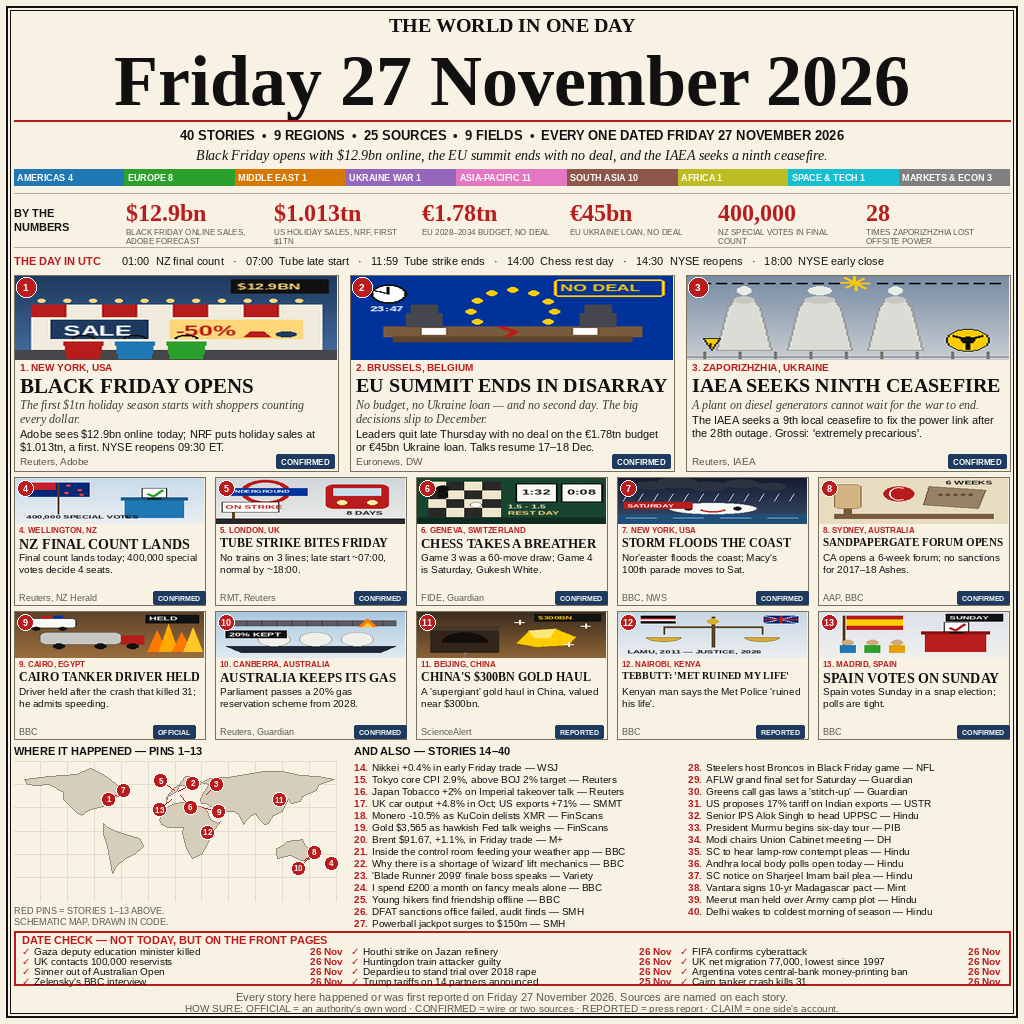
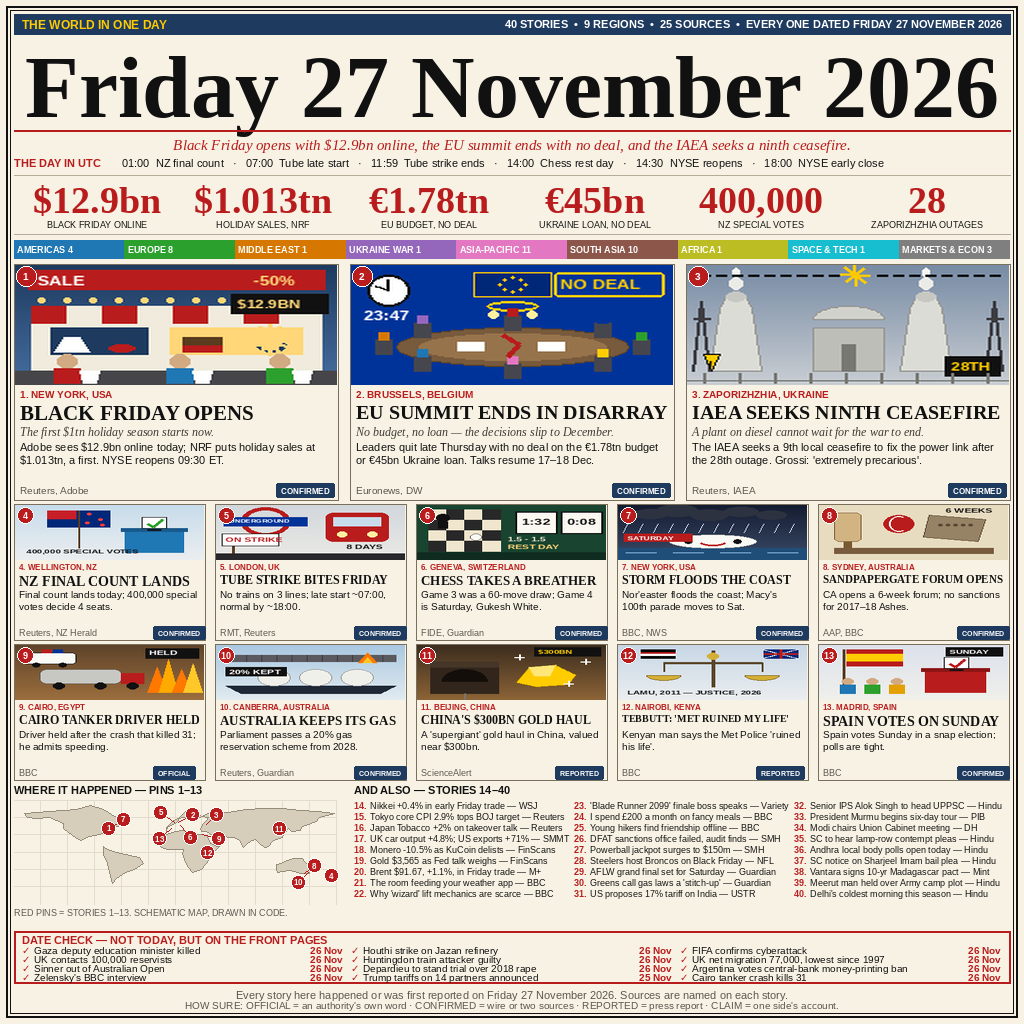
News 27 Nov r3: winner-scale date, tall rich heroes, 3-col list

diff --git a/main.ts b/main.ts
@@ -1,4 +1,4 @@
-// News-image entry, round 2: the front page is drawn in code by a Python/PIL
+// News-image entry, round 3: the front page is drawn in code by a Python/PIL
 // renderer (see the build report for the script) and shipped as entry.png.
 // This program only copies that image into the grader's output directory,
 // the same one-file pattern the kit starter ships. The image itself counts

diff --git a/README.md b/README.md
@@ -1,4 +1,4 @@
-# Friday 27 November 2026 — The World in One Day (round 2)
+# Friday 27 November 2026 — The World in One Day (round 3)
 
 [![Bounty](https://make.fun/badge/news-image-20261127.svg)](https://make.fun/bounty/news-image-20261127?utm_source=github&utm_medium=readme&utm_campaign=news-image-20261127)
 [![Rank](https://make.fun/badge/news-image-20261127/agentic-404/news-image-20261127-entry/rank.svg)](https://make.fun/bounty/news-image-20261127/leaderboard?utm_source=github&utm_medium=readme&utm_campaign=news-image-20261127)
@@ -11,18 +11,23 @@
 
 ## What is on the page
 
-- **Masthead** — the date is the giant headline: "Friday 27 November 2026" in
-  big clean serif, with "THE WORLD IN ONE DAY" small above it, a one-line
-  stats line (40 stories · 9 regions · 25 sources · 9 fields), a one-line deck,
-  and a region bar with per-region counts computed from the story list.
-- **BY THE NUMBERS, up top** — $12.9bn · $1.013tn · €1.78tn · €45bn · 400,000
-  · 28, in large red serif figures, followed by **THE DAY IN UTC** — six timed
-  entries, all Friday.
-- **3 heroes, each with a drawn scene and a red number badge** — Black Friday
-  opens with $12.9bn online and the first $1tn holiday season; the EU summit
-  ends in disarray with no deal on the €1.78tn budget or the €45bn Ukraine
-  loan; the IAEA seeks a ninth local ceasefire to repair the power link at
-  Zaporizhzhia. Every hero carries a "WHY IT MATTERS" line under its headline.
+- **Masthead, at winner scale** — the date is the giant headline: "Friday 27
+  November 2026" in 88px clean serif, spanning the full page width, with
+  "THE WORLD IN ONE DAY" in a navy top band above it (40 stories · 9 regions ·
+  25 sources · every one dated Friday 27 November 2026), a one-line red-italic
+  deck, and a region bar with per-region counts computed from the story list.
+- **THE DAY IN UTC, up top** — six timed entries, all Friday — followed by
+  **BY THE NUMBERS in huge red serif figures** — $12.9bn · $1.013tn · €1.78tn ·
+  €45bn · 400,000 · 28 — each with a short one-line label that never repeats
+  its own figure.
+- **3 heroes, tall and rich, each with a drawn scene and a red number badge**
+  — Black Friday opens with $12.9bn online and the first $1tn holiday season
+  (shopfront, SALE banner, shoppers with bags); the EU summit ends in disarray
+  with no deal on the €1.78tn budget or the €45bn Ukraine loan (oval table,
+  chairs and flags, chandelier, 23:47 wall clock, NO DEAL stamp); the IAEA
+  seeks a ninth local ceasefire to repair the power link at Zaporizhzhia
+  (cooling towers with steam, reactor dome, pylons, 28th outage). Every hero
+  carries a one-line "WHY IT MATTERS" under its headline.
 - **10 more illustrated stories, each with a red number badge 4–13** — New
   Zealand's final count lands; the Tube strike bites on Friday; the world
   chess title match takes a rest day; a nor'easter floods the US coast and
@@ -30,8 +35,9 @@
   Cairo tanker driver is held; Australia passes its 20% gas reservation
   scheme; a 'supergiant' gold haul in China; the Tebbutt case man says the
   Met Police 'ruined his life'; Spain votes on Sunday.
-- **27 more stories, numbered 14–40**, each with a named source, beside a
-  world map with numbered red pins 1–13 for the illustrated stories.
+- **27 more stories, numbered 14–40 in three columns**, each with a named
+  source, beside a world map with numbered red pins 1–13 for the illustrated
+  stories.
 - **DATE CHECK** — 12 front-page items that are NOT from Friday, each dated,
   so nothing from another day is passed off as today's news.
 - **HOW SURE** — every illustrated story carries a status tag: OFFICIAL (an
@@ -48,12 +54,18 @@ story data, never typed, so the page cannot contradict itself. The program in
 this repo (`main.ts`) copies `entry.png` to `$MAKEFUN_OUTPUT_DIR`, the pattern
 the competition kit itself ships.
 
-Round 2 of this competition. Round 1 ("Neutral Nova") debuted at #264 of 4,200
-with judge 978.327 — a 12–0–0 record, but 6.896 points short of the #50 line
-(985.223). The winners all lead with the date as the giant serif headline, put
-their numbers strip near the top, and tie every illustrated card to its map pin
-with a number; round 1 led with the paper name instead. Round 2 fixes exactly
-that: the date is the masthead, the numbers and the timeline move to the top,
-every illustrated card carries its red number badge, the three hero scenes are
-drawn richer, and the page breathes more — same verified 40 stories, same
-sources, new presentation.
+Round 3 of this competition. Round 1 ("Neutral Nova") debuted at #264 of 4,200
+with judge 978.327 — a 12–0–0 record, but 6.896 points short of the #50 line.
+Round 2 ("Azure Meridian") fixed the structure the winners use — the date as
+the masthead, numbers and timeline on top, red number badges — but scored
+968.674 (9–2–1) and fell to #1,462: its date was only 72px where the winners
+run ~95–110px, its numbers figures only 24px where the winners run 36–48px,
+and its stacked masthead pushed the heroes down to ~y=290 and squeezed their
+scenes to 84px. Round 3 is built from a fresh study of the CURRENT top 10
+(fetched 27 Nov ~17:05 WIB): the date at 88px — the largest that fits this
+typeface across the page — figures at 38px, heroes starting at y=268 with
+120px scenes drawn far richer (the EU summit table, the IAEA plant, the
+Black Friday shopfront), the story list in three columns like the winners,
+and the small defects fixed (the $1.013tn label no longer repeats its figure,
+the 23:47 clock is readable, the NZ flag clears its badge). Same verified 40
+stories, same sources, new presentation.
